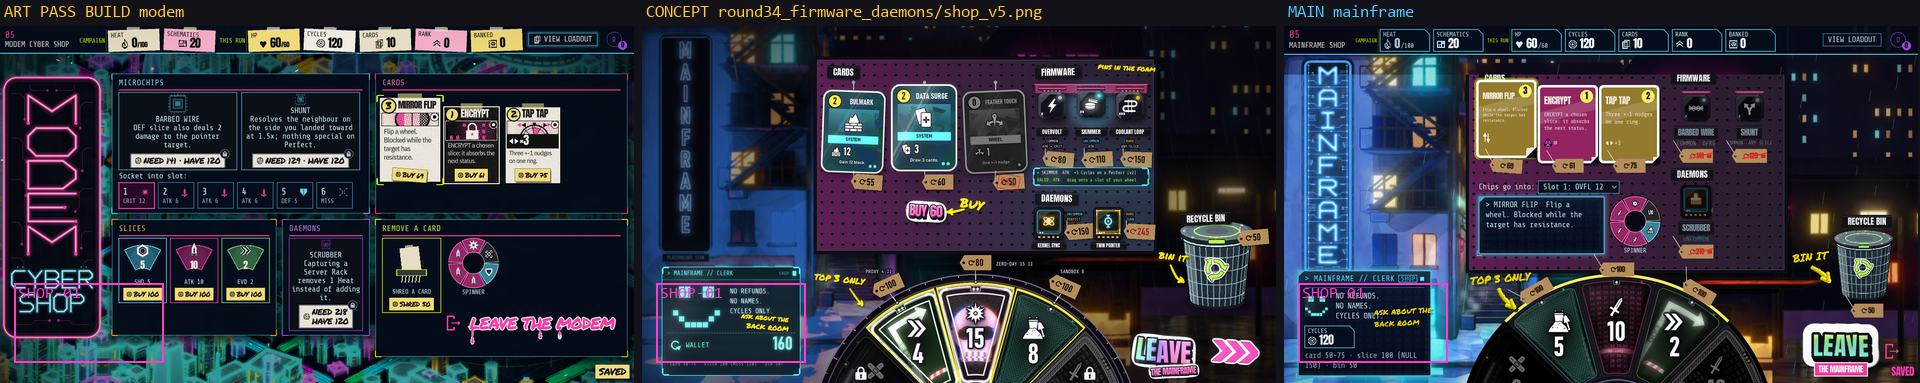
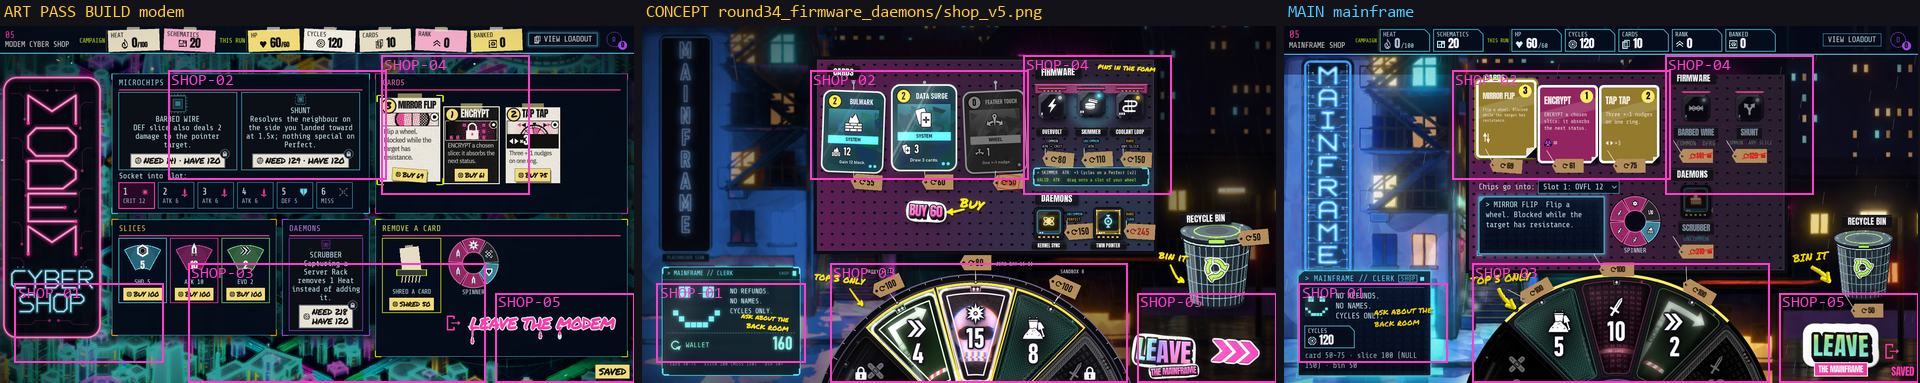
M14 parity audit: netrun pages compared (ROUTE, JACK, LOOT, SHOP-02..08, EVT, DECK, DAEMON); designer rulings on TITLE-01..04 recorded

diff --git a/docs/art_review/PARITY/GAPS.md b/docs/art_review/PARITY/GAPS.md
@@ -35,6 +35,7 @@ fixed until the designer has ruled** on each id (`Decision:` left empty).
 ## Differences
 
 ### Title (`title.jpg`)
+**Designer ruling (2026-10-05):** the title follows concept round 33 `title_screen.png`, except main's SIMULATE sticker stays (not the concept's DISABLE).
 Refs: art pass build `title`; concept `round33_ui_chrome/title_screen.png` (LOCKED option A).
 The build's title is the M13 menu (logo, pink CONTINUE bar, menu list, yellow note, UPLINK box);
 main already follows the locked concept's layout (neon sign, BREACH / SIMULATE / OVERTHROW
@@ -52,22 +53,22 @@ Grid / raid / netrun. Likely cause: `scripts/ui/title_scene.gd` builds `Cyberdec
 the unified `CityView3D` look. Fix options: (a) CityView3D at a fixed title camera + the
 `glass_blur` shader as a depth-of-field band; (b) keep NeonCity but drop its saturation and add the
 blur. Art-pass source: concept `round33_ui_chrome/title_screen.png` / `.gif`.
-Decision:
+Decision: **concept 33** (the blurred, lit 3D city). (designer, 2026-10-05)
 
 **TITLE-02 (P2) MORE panel crowds the verb stickers.** Concept: a clear gap (~40 px at 1080p,
 ~25 px at 720) between OVERTHROW and the MORE panel, MORE sits lower. Main: MORE's top edge almost
 touches the OVERTHROW sticker. View: concept reads better (the three verbs are the hero group).
 Likely cause: `title_scene.gd` `_place_bottom` / `FOOT_GAP` / `_align_verbs`. Fix: place MORE from
 the foot up with the concept's gap, or nudge the verb column up.
-Decision:
+Decision: **concept 33** (a clear gap from OVERTHROW to MORE). (designer, 2026-10-05)
 
 **TITLE-03 (P3) CONTINUE summary line.** Concept: `slot 1 // Halcyon Civic // run 9 // Heat 58`
 (slot named first). Main: `Solace Biosystems // run 1 // Heat 0` and a `>` caret on the focused
 chip (the caret is the UI kit's focus rule). Fix if wanted: prefix the slot in
-`title_scene.gd` `slot_words`. Decision:
+`title_scene.gd` `slot_words`. Decision: **keep main** (content only). (designer, 2026-10-05)
 
 **TITLE-04 (P3) Version line.** Concept: `REBEL_CELL v0.33.0 // build <date> // godot 4.7`. Main:
-`REBEL_CELL v0.9.0 // cell uplink`. Content only. Decision:
+`REBEL_CELL v0.9.0 // cell uplink`. Content only. Decision: **keep main** (content only). (designer, 2026-10-05)
 
 ### Title: delete-slot confirm (`title_confirm.jpg`)
 Ref: concept `round33_ui_chrome/abandon_dialog.png` (the build has no such dialog; it is the same
@@ -177,8 +178,85 @@ lines (`25` alone on the second); the build fits it on one. Main's headers carry
 and square (kit rule). Likely cause: main's panel is narrower than its row at 1.0
 (`hq_scene.gd`, menu column width). Decision:
 
-### MAINFRAME shop (`mainframe.jpg`; only the orchestrator's finding so far)
-Refs: build `modem`; concept `round34_firmware_daemons/shop_v5.png`.
+### Netrun route (`route.jpg`)
+Refs: art pass build `route` (M13: wireframe city, hex/diamond node icons on a dashed board, route
+panel top right, DISPATCH strip, ROUTE KEY); concept `round37_netrun/city_default.png` (LOCKED hybrid
+D: the unified lit city, cable-run paths, dossier paper, node holo panel, JACK IN sticker, minimap,
+state key, `Always show all nodes` option). Main follows the concept's pieces.
+
+**ROUTE-01 (P1) Route on the city.** Concept: the whole route is drawn: yellow walked cable-runs,
+orange selectable, grey hidden nodes as small discs, patrols and corp landmarks labelled with
+stickers (THE SPRAWL, MERIDIAN, HALCYON), the target circled. Main: only the two next nodes and a
+dashed orange start bracket are drawn; the rest of the run is blank city; `[1] Fight` / `[2] Fight`
+chips sit on top of their own markers. Build: the whole board with every node icon. View: main shows
+too little to plan a route (the concept shows hidden nodes as grey "not yet" discs). Likely file:
+`scripts/ui/kit/netrun_map_view.gd`, `route_overlay.gd`, `route_ink.gd`, `route_legend.gd`.
+Decision:
+
+**ROUTE-02 (P1) Dossier overlaps.** Main: the `AT LARGE` stamp covers the HP value (`60 /` cut) and
+the `HEAT 0: COOL` stamp touches the IF STATIONED box. Concept: stamps in the paper's margins. Likely
+file: `scripts/ui/kit/operative_dossier.gd` (stamp anchors). Decision:
+
+**ROUTE-03 (P1) Node panel.** Main: `DECRYPTED` stamp over the panel header, `Fight: win it for
+Cycles and loo` cut at the right edge, the crossed-out dial `5` on the rewards text. Concept: the
+node holo (`DEPOT 15`) with tier / type / rewards, the stamp small in the corner, nothing over text;
+plus a JACK IN sticker and the map option under it. Likely file: `scripts/ui/kit/route_node_panel.gd`,
+`raid_holo.gd` (shared holo), `zine_stamp.gd`. Decision:
+
+**ROUTE-04 (P2) Route choice panel.** Build and main: `ROUTE // PICK THE NEXT NODE` terminal, rows
+`[1] Fight > Fight · Event`, GRID VIEW, Save & quit. Main's rows have lime focus brackets and
+`then: Shop` lines. Concept: no list (you pick on the map; the holo shows the hovered node). View:
+the list is the pad / keyboard path; keep it, but it duplicates the map. Decision:
+
+**ROUTE-05 (P3) Node key strip.** Main: `COMBAT ELITE EVENT SHOP RACK | walked next not yet cut off
+| HOVER HERE: SHOW ALL NODES` along the foot. Concept: the same idea, states only. Matches.
+Decision:
+
+**ROUTE-06 (P2) Page title.** Concept: `THE GRID` title sticker top left (the run's map). Build:
+DISPATCH line under the top bar. Main: top-bar words `NETRUN // ROUTE` only; no DISPATCH line on
+this frame. Decision:
+
+### Jack-in (`jack_in.jpg`)
+Ref: build `jack_in`; concept `round37_netrun/transition_storyboard.png`.
+
+**JACK-01 (P3) CONNECTING TO.** Build: one small cyan line `CONNECTING TO SOLACE BIOSYSTEMS`. Main:
+small `CONNECTING TO` over a large cream stencil corp name. Same grid and scan band. View: main's is
+stronger. Likely file: `scripts/ui/kit/jack_sequence.gd`. Decision:
+
+### Loot (`loot.jpg`)
+Refs: build `loot`; concept `round32_shop_reward/reward_screen_v2.png` (LOCKED reward).
+
+**LOOT-01 (P1) Loot sheet cards.** Concept: three big sticker cards on a white loot sheet, the
+middle one lifted with a peel corner, each card with art (glyph on a coloured field), type band,
+rule, and a holo border for rare; a FIRMWARE DROP terminal beside it with a socket wheel. Build:
+cream paper cards with halftone art in a terminal panel. Main: the white sheet is there; the cards
+are flat gold / purple rectangles with only the name, cost and a two-line rule in small type, no
+glyph art, no type band; the sheet is small (cards ~110 px wide). View: the concept is much richer;
+main's cards read like placeholders. Likely file: `scripts/ui/kit/loot_sheet.gd`, `zine_card.gd`
+(the same card face as CMB-04 / SHOP-02 / DECK-01). Decision:
+
+**LOOT-02 (P2) Page title.** Concept: `FIGHT WON` title sticker + a `LOOT // NETRUN ...` chip.
+Main: `PAYOUT` sticker + `> PAYOUT // LOOT: PICK A CARD` chip. Build: pink pencil `LOOT: PICK A
+CARD`. Content choice. Decision:
+
+**LOOT-03 (P2) Payout, deck counter, SKIP.** Concept: PAYOUT terminal top right (CYCLES +18, HP,
+HEAT), a DECK 17 counter bottom left with a yellow pencil arrow `+1 = 18` from the picked card,
+SKIP and CONTINUE stickers. Main: PAYOUT terminal (CYCLES 0, HP 60/60) beside the sheet, a small
+`DECK 10` chip with a yellow `+1 = 11` scribble, SKIP sticker, no CONTINUE. View: main's pieces are
+crammed into the right of the sheet. Likely file: `loot_sheet.gd`, `netrun_scene.gd` (loot page).
+Decision:
+
+**LOOT-04 (P1) Backdrop.** Concept: the dark, blurred lit city. Main: the bright 2D wireframe
+city (lime / cyan / magenta outlines) at full strength behind the sheet, also behind the event,
+shop overlays and pauses; it competes with every page. Build: the same wireframe city (M13).
+Likely file: `cyberdeck_background.gd` (as TITLE-01). Decision:
+
+### MAINFRAME shop (`mainframe*.jpg`)
+Refs: build `modem`, `modem_socket`, `modem_remove`, `modem_overwrite` (M13 MODEM CYBER SHOP: a
+pink neon sign column, terminal panels MICROCHIPS / CARDS / SLICES / DAEMONS / REMOVE A CARD);
+concepts `round34_firmware_daemons/shop_v5.png` (LOCKED shop), `firmware_socket.png`,
+`round32_shop_reward/removal_options.png`. Main follows shop_v5 (MAINFRAME sign, pegboard, clerk,
+slice wheel, recycle bin, LEAVE).
 
 **SHOP-01 (P1) Pencil note over the clerk's line.** Concept: the yellow pencil
 `ASK ABOUT THE BACK ROOM` sits below and right of `CYCLES ONLY.`, clear of it. Main: at 1.0 the
@@ -186,6 +264,89 @@ note's first line runs over the end of `CYCLES ONLY.` (the full stop and the Y a
 Build: no clerk. Likely cause: `scripts/ui/netrun_scene.gd` `CLERK_NOTE` placement (~l.3558), the
 note anchored to the line's right instead of under it. Fix: anchor the note under the last clerk
 line, offset right, as in the concept. Decision:
+
+**SHOP-02 (P1) Card stock faces.** Concept: pinned sticker cards with type colour (SYSTEM teal,
+WHEEL grey), a big glyph on a patterned field, type band, value and rule. Main: pinned cards with
+price tags on strings (matches), but the faces are flat gold / magenta with a small rule in tiny
+type and no glyph art (same card face as LOOT-01). Decision:
+
+**SHOP-03 (P2) Slice wheel.** Concept and main: the half wheel at the foot with prices on tabs,
+`TOP 3 ONLY` pencil; main's slices are darker and the tab prices smaller. Matches in layout.
+Likely file: `scripts/ui/kit/slice_stock_wheel.gd`. Decision:
+
+**SHOP-04 (P2) Firmware pegs.** Concept: three chips with glowing coloured gems, white bold glyphs,
+names, rarity in colour (COMMON / UNCOMMON blue / RARE gold), allowed slice, kraft price tags, and a
+cyan terminal hint row (`> SKIMMER ATK: ...`). Main: two chips, dark with grey glyphs, rarity and
+slice in grey, price tags struck out in red (not affordable: the concept's rule is a greyed dot +
+NEED tag). View: main's red strike reads as "sold" rather than "can't afford yet". Likely file:
+`scripts/ui/kit/shop_item.gd`, `shop_pegboard.gd`. Decision:
+
+**SHOP-05 (P3) LEAVE and the bin.** Concept: `LEAVE THE MAINFRAME` sticker + chevrons bottom
+right, recycle bin top right of the wheel. Main: matches; LEAVE is green-white (concept's is the
+same), the bin sits higher. Decision:
+
+**SHOP-06 (P1) Socket choice.** Concept: drag the chip onto a slice of the wheel; valid slices get
+lime brackets, invalid ones grey out, occupied ones show an amber REPLACE?. Build: a row of numbered
+slot tiles `1 CRIT 12 ... 6 MISS`. Main: a `Chips go into: Slot 1: OVFL 12` OptionButton whose list
+covers the card's description panel. View: the dropdown is the weakest of the three and hides the
+info it needs. Likely file: `netrun_scene.gd` shop socket UI, `shop_item.gd`. Decision:
+
+**SHOP-07 (P2) Remove a card.** Concept (two options): PURGE `rm -rf` keycap you drop the card on,
+or DEGAUSS coil. Build: card grid + a SHRED sticker. Main: a `RECYCLE BIN // REMOVE A CARD` lime
+terminal with the card grid and the recycle bin icon under it (the bin is the concept's 4th, sketch
+option). Designer call between the concept's PURGE (marked "recommended") and main's bin.
+Decision:
+
+**SHOP-08 (P3) Upgrade a slice.** Build: `UPGRADE · 100 CYCLES` as one pink graffiti line. Main:
+`UPGRADE` graffiti + `100 CYCLES` in small cyan beside it. Same wheel. Decision:
+
+### Events (`event.jpg`, `event_dispatch.jpg`)
+Refs: build `event`, `event_dispatch` (M13: paper note top left, choice cards right, pink pencil
+`PLAY IT SAFE??`); concepts `round31_reward_event/event_screen.png`, `event_screen_memo.png`.
+
+**EVT-01 (P2) Event terminal.** Concept: one wide terminal centred with a CAM feed still, title,
+body, CHOOSE list, RUN side terminal (HP / CYCLES / CREW), TERMINAL sticker and the pencil to the
+safe choice. Main: the same pieces, placed top right over the city; no RUN side panel; the CAM
+feed is the wireframe city (concept: a photo-like cam still with a red pencil circle). View: main
+follows the concept; centring it as the concept does would stop it fighting the top bar.
+Likely file: `scripts/ui/kit/cam_feed.gd`, `netrun_scene.gd` (event page). Decision:
+
+**EVT-02 (P2) Choice rows.** Concept: yellow numbered tabs, stencil choice names, outcome chips
+(`-12 HP`, `+1 BREAKER`, `NO CHANGE`) in a column to the right of the row. Main: yellow tabs and
+stencil names, outcome chips tucked under the name in tiny type, the row has a lime focus edge.
+View: the concept's chips are readable at a glance. Likely file: `choice_sticker.gd`,
+`outcome_row.gd`. Decision:
+
+**EVT-03 (P1) DISPATCH event.** Concept memo: a paper memo (corp letterhead, highlighted lines,
+red pencil circle, DO NOT FORWARD stamp) on the left of the terminal; INTERCEPTED header; result
+lines and CONTINUE. Main: a red-edged terminal `> TERMINAL // DISPATCH` with a red heartbeat
+`VOICE ONLY // NO FEED` instead of the memo. View: DISPATCH is voice (no document), so main's
+waveform is a reasonable stand-in; the memo concept is for corp intercepts. Designer call.
+Likely file: `corp_memo.gd`, `netrun_scene.gd`. Decision:
+
+### Deck viewer and card detail (`deck_view.jpg`, `card_detail.jpg`)
+Ref: build `deck_view`, `card_detail` (no concept image; the cards should match the hand,
+`round41_wheel_stack/combat_typical_v4.png`).
+
+**DECK-01 (P1) Card faces in the viewer.** Build: the cream paper cards with halftone art. Main:
+flat gold / magenta cards with name, cost, a two-line rule and a tiny value line; no art, the grid
+leaves the right third empty. Same card face issue as LOOT-01 / SHOP-02. Likely file:
+`scripts/ui/kit/deck_view.gd`, `zine_card.gd`. Decision:
+
+**DECK-02 (P2) Card detail.** Build: the card at ~2x with its art, and a CARD NOTES panel
+(type, what it does, rarity and stock, the SPIN rule). Main: a `CARD DETAIL` terminal over the grid
+with a ~1.3x card and three plain lines (`JOLT // 1 RAM`, `Common`, `Jolt (RAM 1) Spin a wheel 3
+ticks.`) repeating the card. View: the build's notes explain more. Likely file: `scripts/ui/kit/inspect_popup.gd`.
+Decision:
+
+### Daemon tray (`daemon_tray.jpg`)
+Refs: build `daemon_tray`; concept `round34_firmware_daemons/daemon_row.png` (the rack in combat,
+CLEAN SIGNAL card).
+
+**DAEMON-01 (P3) Daemon tray popup.** Build and main: the same small `DAEMON / CASCADE` terminal
+under the top-right Daemon badge; main's reads `Daemon Cascade` (doubled word). Concept: in combat,
+a CRT rack on the left with a hover card (name, rarity, trigger, family colour, TILE STATES). The
+tray outside combat has no concept. Likely file: `scripts/ui/kit/daemon_tray.gd`. Decision:
 
 ### Combat (`combat_*.jpg`, `tutorial.jpg`)
 Refs: art pass build `combat_*` (M13: bright teal wireframe city, pink/teal sticker-ring wheels,
